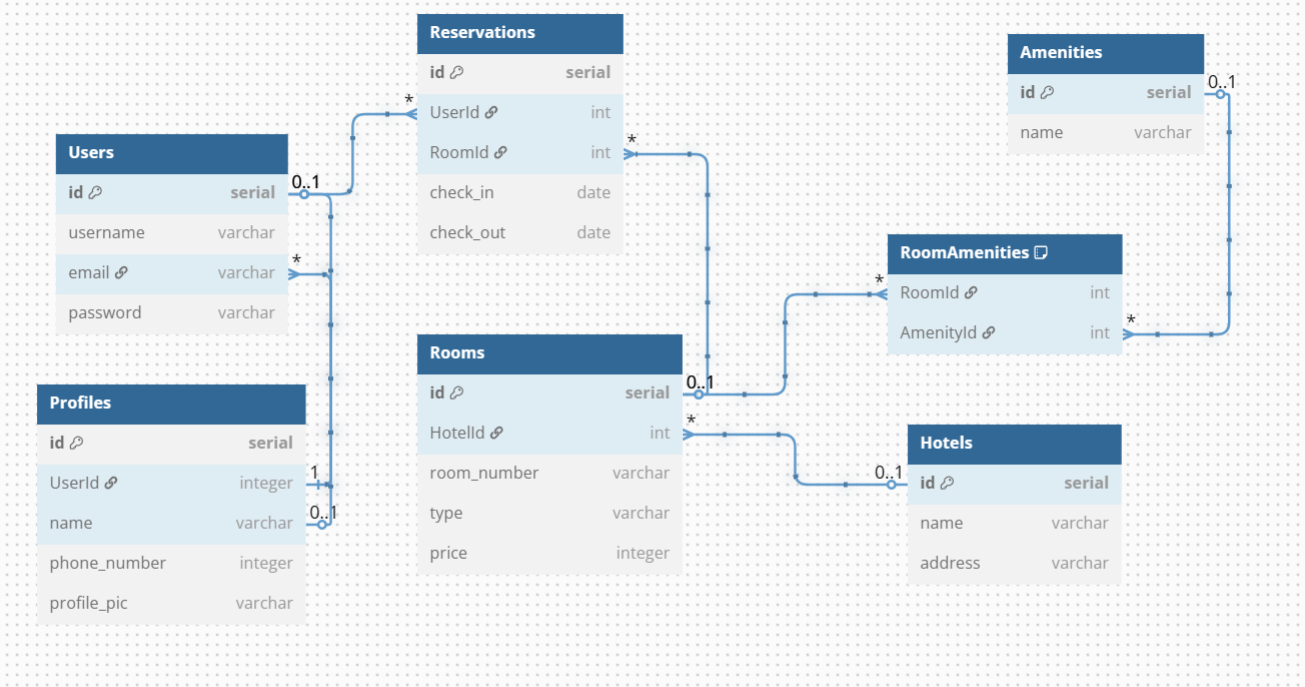
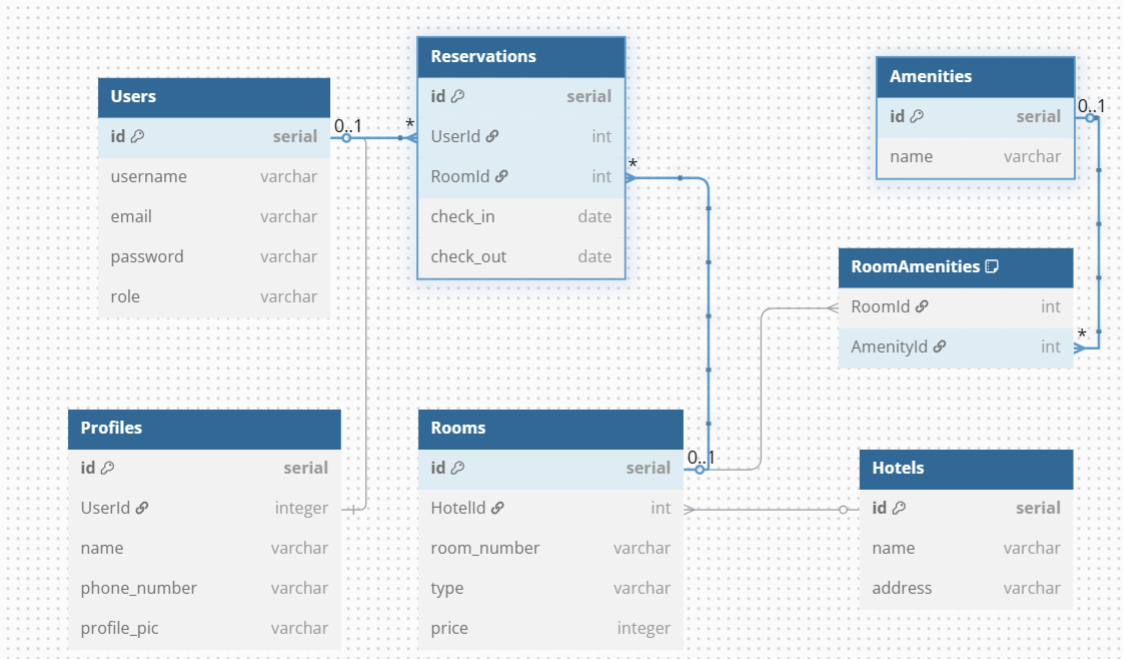
Feat : Penambahan seeder user dan profile; Fix : Pembetulan pada ERD, migration, models : phone_number dari integer menjadi string

diff --git a/seeders/20250408125835-seed-Profile.js b/seeders/20250408125835-seed-Profile.js
@@ -1,0 +1,41 @@
+'use strict';
+
+const fs = require('fs').promises;
+
+/** @type {import('sequelize-cli').Migration} */
+module.exports = {
+  async up (queryInterface, Sequelize) {
+    /**
+     * Add seed commands here.
+     *
+     * Example:
+     * await queryInterface.bulkInsert('People', [{
+     *   name: 'John Doe',
+     *   isBetaMember: false
+     * }], {});
+    */
+    let profiles = JSON.parse(await fs.readFile("./data/profiles.json", "utf-8"))
+
+    profiles = profiles.map(el=>{
+      delete el.id
+
+      return {
+        ...el,
+        createdAt : new Date(),
+        updatedAt : new Date()
+      }
+    })
+
+    await queryInterface.bulkInsert('Profiles',profiles, {});
+  },
+
+  async down (queryInterface, Sequelize) {
+    /**
+     * Add commands to revert seed here.
+     *
+     * Example:
+     * await queryInterface.bulkDelete('People', null, {});
+     */
+    await queryInterface.bulkDelete("Profiles", null, {})
+  }
+};

diff --git a/seeders/20250408125831-seed-User.js b/seeders/20250408125831-seed-User.js
@@ -1,0 +1,41 @@
+'use strict';
+
+const fs = require('fs').promises;
+
+/** @type {import('sequelize-cli').Migration} */
+module.exports = {
+  async up (queryInterface, Sequelize) {
+    /**
+     * Add seed commands here.
+     *
+     * Example:
+     * await queryInterface.bulkInsert('People', [{
+     *   name: 'John Doe',
+     *   isBetaMember: false
+     * }], {});
+    */
+    let users = JSON.parse(await fs.readFile("./data/users.json", "utf-8"))
+
+    users = users.map(el=>{
+      delete el.id
+
+      return {
+        ...el,
+        createdAt : new Date(),
+        updatedAt : new Date()
+      }
+    })
+
+    await queryInterface.bulkInsert('Users',users, {});
+  },
+
+  async down (queryInterface, Sequelize) {
+    /**
+     * Add commands to revert seed here.
+     *
+     * Example:
+     * await queryInterface.bulkDelete('People', null, {});
+     */
+    await queryInterface.bulkDelete("Users", null, {})
+  }
+};

diff --git a/models/profile.js b/models/profile.js
@@ -17,7 +17,7 @@ module.exports = (sequelize, DataTypes) => {
   Profile.init({
     UserId: DataTypes.INTEGER,
     name: DataTypes.STRING,
-    phone_number: DataTypes.INTEGER,
+    phone_number: DataTypes.STRING,
     profile_pic : DataTypes.STRING
   }, {
     sequelize,

diff --git a/migrations/20250408081144-create-profile.js b/migrations/20250408081144-create-profile.js
@@ -16,7 +16,7 @@ module.exports = {
         type: Sequelize.STRING
       },
       phone_number: {
-        type: Sequelize.INTEGER
+        type: Sequelize.STRING
       },
       createdAt: {
         allowNull: false,
